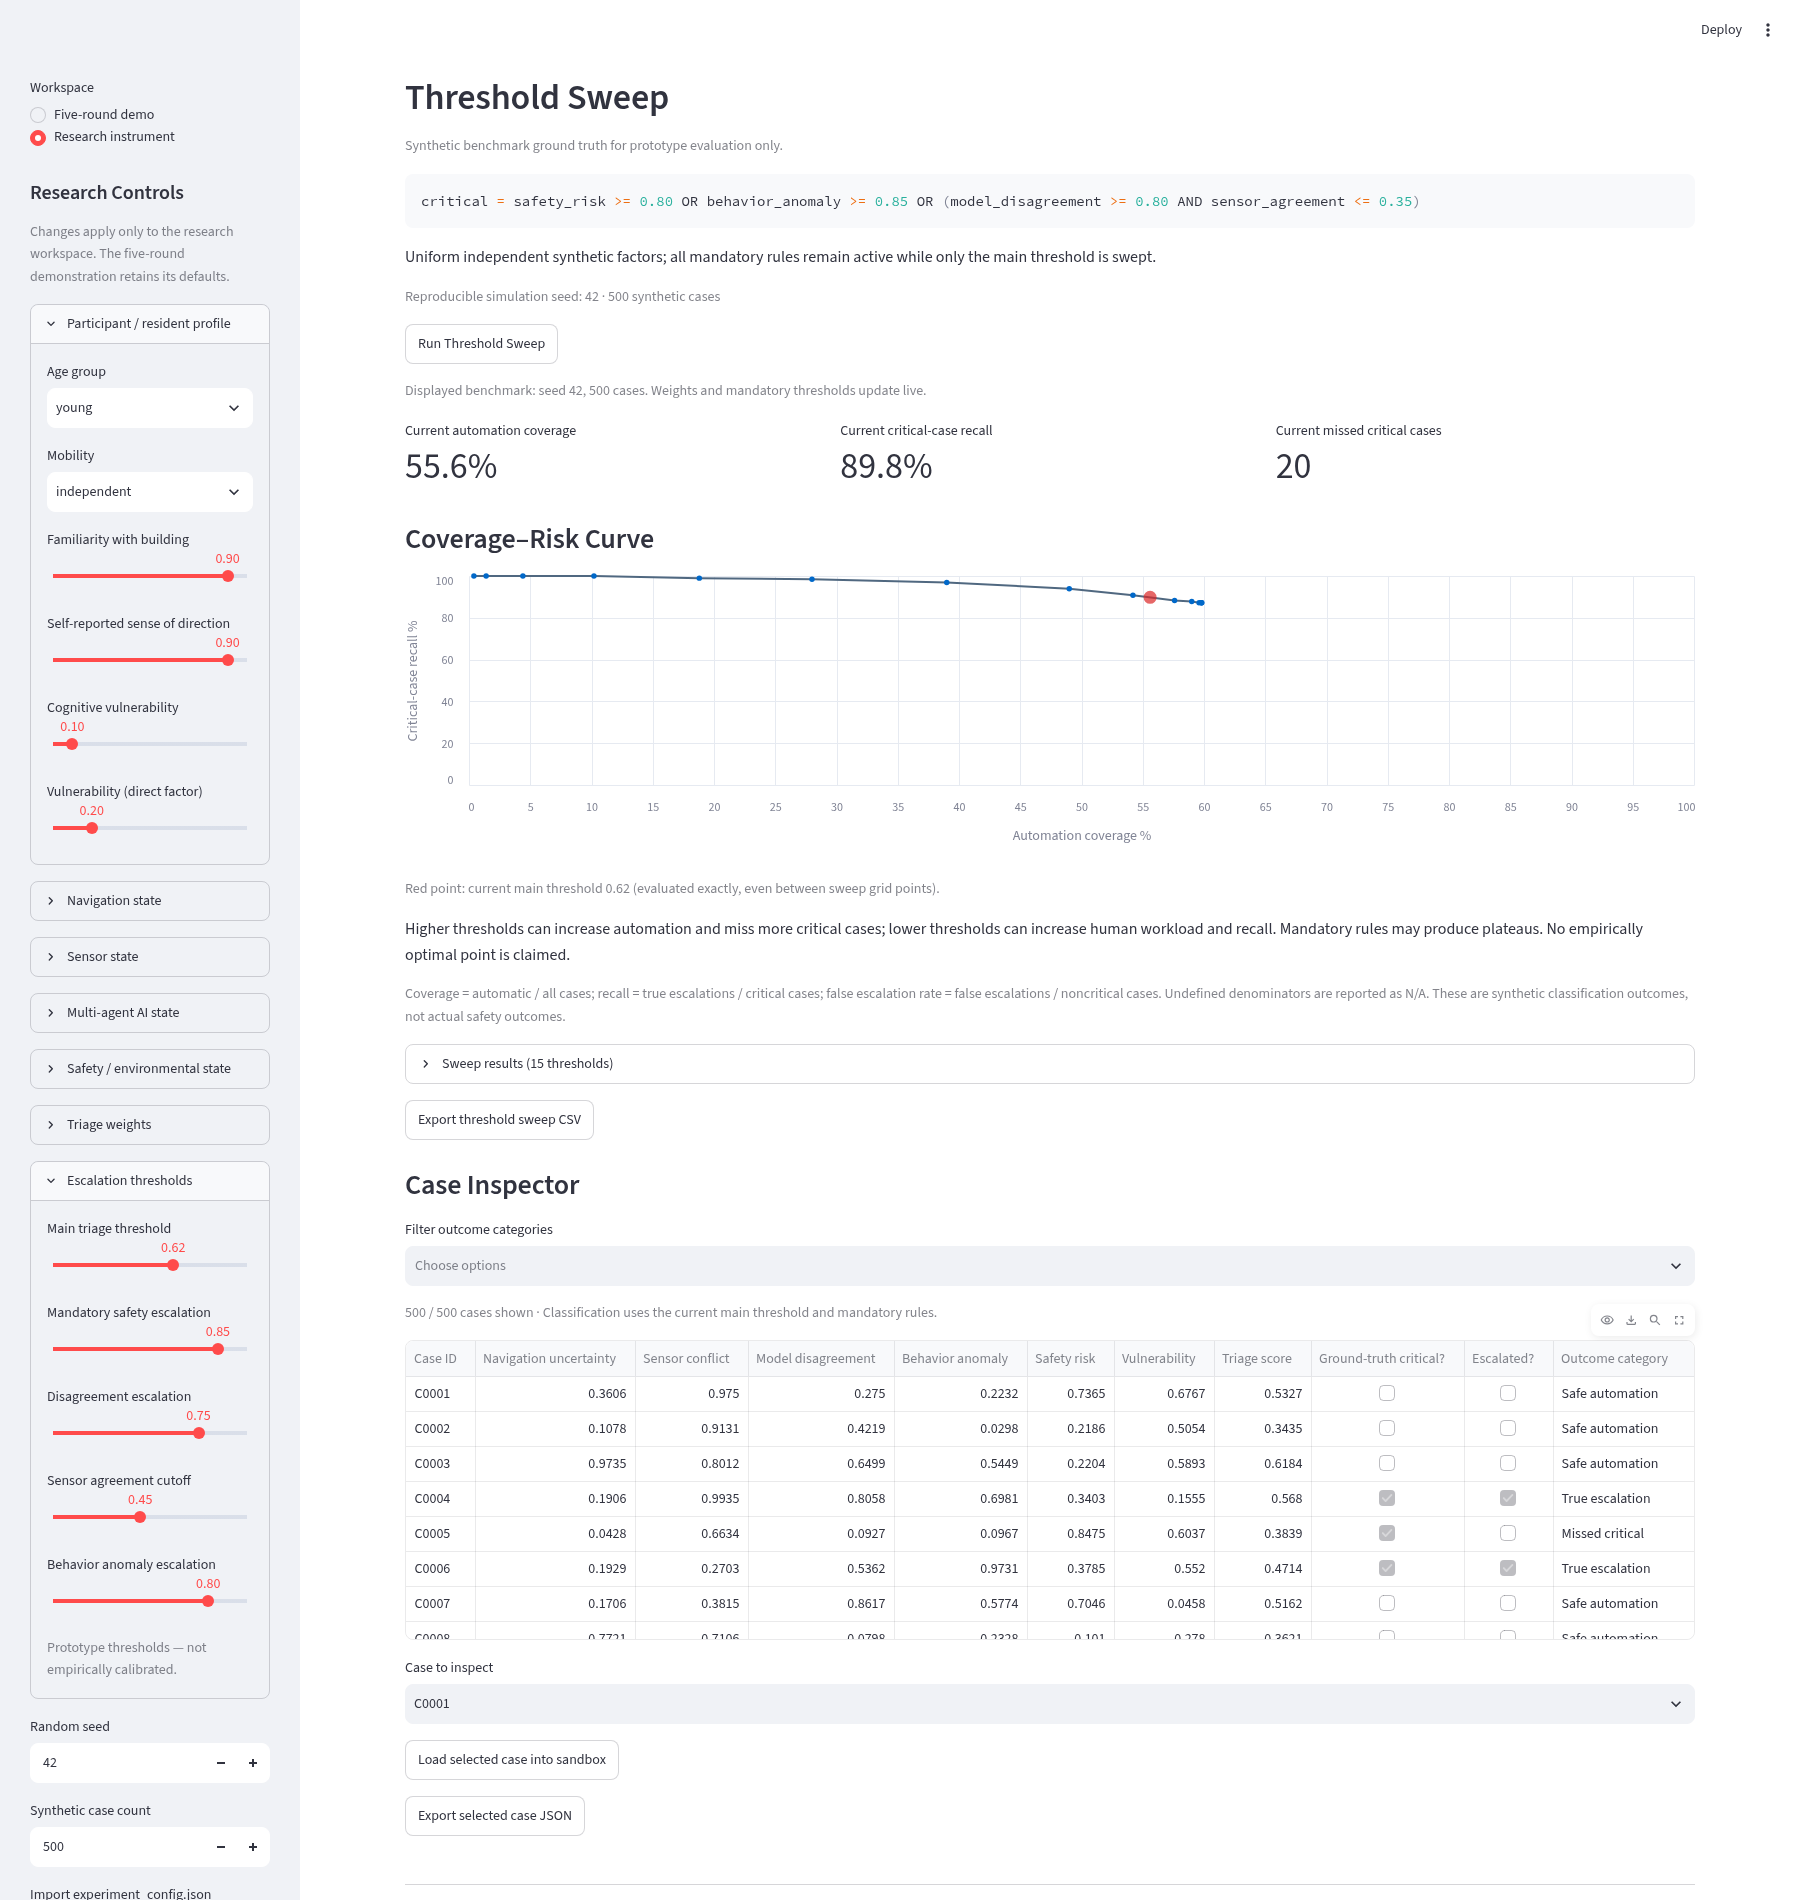
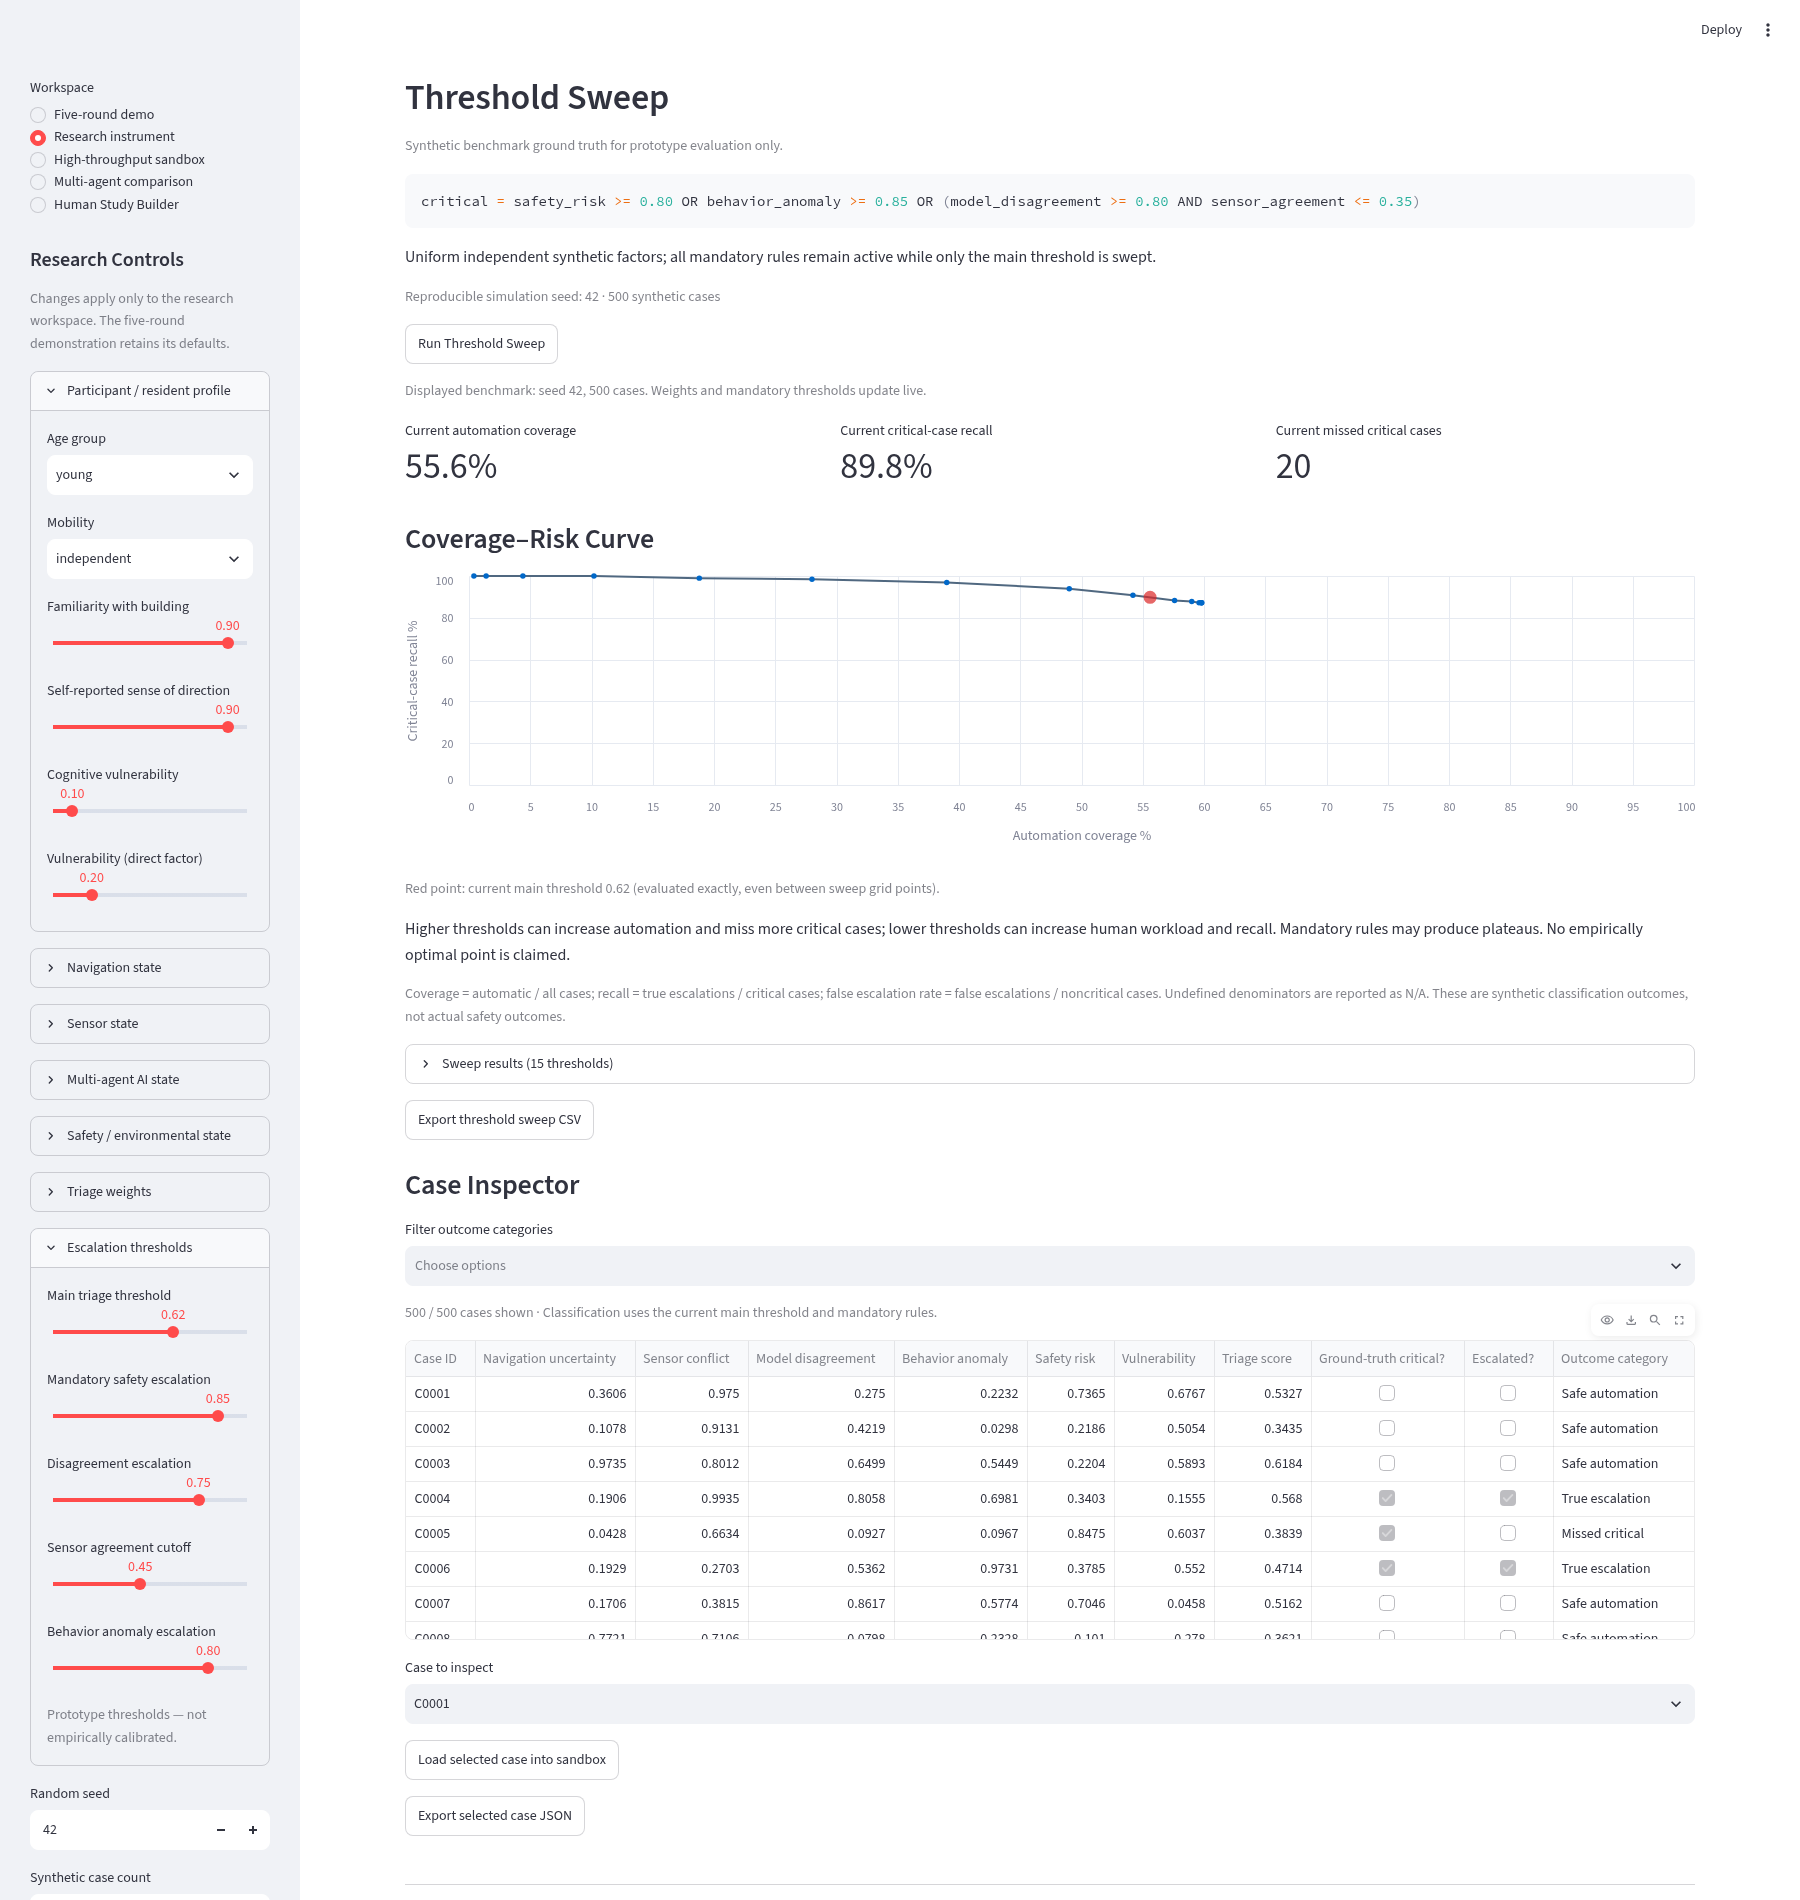
Document six-milestone platform and final integration verification

Changed region(s): [[0.0, 0.0932, 0.1244, 0.9626], [0.0, 0.9937, 0.1244, 1.0]]

diff --git a/README.md b/README.md
@@ -1,5 +1,51 @@
 # New Research Paradigm
 
+**AI High-Throughput Simulation + Human Long-Tail Intervention**
+
+A runnable HCI research instrument for exploring **when AI should stop acting
+autonomously and defer a spatial decision to a human**. Ordinary cases are
+processed automatically; uncertain/high-risk tails are prioritized for human
+judgment and subsequent empirical evaluation.
+
+```text
+Large Scenario Space
+        ↓
+AI High-Throughput Sandbox
+        ↓
+Automatic Triage
+      ↙   ↘
+HEAD      LONG TAIL
+ ↓            ↓
+AUTO        HUMAN
+              ↓
+        Hybrid Decision
+              ↓
+        Empirical Evaluation (future approved human studies)
+```
+
+**Evidence boundary:** all included scenarios, agent outputs and automated pilot
+runs are **SIMULATED EVIDENCE**, not **HUMAN EMPIRICAL EVIDENCE**. The familiar
+97.5% automation coverage is the result of one fictional five-round demonstration,
+not an estimate of real-world automation. Synthetic agents never substitute for
+human participants, and Hybrid > Human is not claimed.
+
+| Milestone | Capability | Current validation |
+| --- | --- | --- |
+| 1 | Standard-library CLI, asyncio, 8 occupants, selective takeover | A/85 closed loop and JSON report |
+| 2 | Five-round visual sandbox, pause/resume, human judgment | A/B/C tests and Chromium interaction |
+| 3 | Configurable factors/weights/rules, reproducible sweep and inspector | Default rules, seed, import/export and regression tests |
+| 4 | 100–5,000 scenarios, head/tail exploration and study sampling | Four sizes, five strategies, unique condition exports |
+| 5 | Five-role Concordia adapter, structured proposals and comparison | Actual Concordia 2.4 lifecycle with mock; real LLM calls untested |
+| 6 | Anonymous study builder, three trial conditions, logs and pilot analysis | Automated synthetic pilot; no real human study performed |
+
+**Quick start (Python 3.12+):** create/activate a virtual environment, run
+`python -m pip install -r requirements.txt`, then `streamlit run app.py`.
+All deterministic, study and no-key mock workflows remain available with this
+base installation. Optionally install `requirements-agents.txt` for Concordia.
+The sidebar selects the five workspaces; participant pilots hide researcher
+controls. Formal participant deployments are outside the validated scope.
+
+
 A deterministic research demo of AI throughput with selective human takeover.
 The validated command-line baseline is `demo.py`; its scenario and decision
 application are reused by the Web Demo. Milestone 3 extracts its unchanged
@@ -385,3 +431,74 @@ pilot used known scripted choices for test purposes; it was not a human study.
 ![Participant selective takeover](screenshots/13-participant-takeover.png)
 
 ![Labeled pilot results](screenshots/14-results-dashboard.png)
+
+## Final integration and reproducibility
+
+All six milestones use the same `triage.py` definition. Historical imports and
+screenshots 01–14 are retained. Core/default thresholds remain uncalibrated.
+The current implementation intentionally keeps the old root imports rather than
+moving the validated CLI modules behind new package paths.
+
+```text
+app.py                         workspace selection and shared map
+triage.py                      single scientific score/rule implementation
+demo.py                        validated standard-library CLI
+web_simulation.py              legacy five-round state
+research_config.py / research_ui.py
+synthetic_cases.py             original six-factor benchmark
+batch_simulation.py / batch_ui.py
+agents/                        Concordia adapter and inspected API notes
+agents_ui.py                   structured comparison
+experiment/                    builder, participant state, storage, analysis
+study_ui.py                    researcher/participant screens
+test_web.py / tests/            Python regression/instrument tests
+test_browser.cjs                Milestone 2/3 real-browser workflow
+test_platform_browser.cjs       Milestone 4/5/6 real-browser workflow
+screenshots/                   all fourteen documented states
+data/                          ignored local anonymous pilot logs
+```
+
+Final checks: **26 test methods passed**, with no failed/skipped tests;
+both Chromium scripts passed their complete workflows, without browser runtime
+errors. Standard-library CLI validation runs in a temporary directory so it does
+not overwrite the retained baseline report. Package dependency integrity was
+checked with `python -m pip check`. Pilot persistence and JSON/CSV round trips
+were checked against the exported records, not only an HTTP health response.
+
+```bash
+python -m unittest discover -v
+node test_browser.cjs
+node test_platform_browser.cjs
+```
+
+Browser scripts require Playwright + Chromium, already installed in the cloud
+runtime; they are development checks rather than application dependencies.
+They generate screenshots and explicitly marked automated pilot logs. The app
+runs locally; the repository screenshots can be viewed directly on GitHub.
+Live processes and browser sessions are not assumed to survive a new environment.
+
+Technical limits: local SQLite/files and Streamlit session state are not a
+production multi-user/authentication system. Protocol import/resume, calibrated
+client-onset RT, durable deployed storage and formal counterbalancing are not yet
+implemented. Concordia integration is a bounded, single-turn entity adapter,
+not a full memory/world engine. Real provider behavior, cost and availability
+remain untested. JSON/CSV pilot mirrors rely on writable local storage.
+
+Scientific limits: independent uniform factor sampling is a stress-test space,
+not a calibrated population model. Scores, context mappings, route references,
+difficulty rankings and study conditions need external validation. Descriptive
+associations and aggregate complementarity arithmetic cannot establish causal
+effects, human effect sizes or Hybrid superiority. Repeated case presentations
+may introduce learning/carryover. No real human behavioral data were collected.
+
+**Recommended Milestone 7:** preregister a small, institutionally approved human
+pilot; refine task validity and accessible stimuli; implement counterbalancing,
+client-timestamp validation and deployment/privacy controls; then evaluate
+behavioral validity, decision quality, cognition, workload, trust calibration and
+complementarity before calibrating thresholds or scaling generative simulation.
+
+**Collaborator description:** New Research Paradigm explores a large synthetic
+spatial-decision space, deterministically triages ordinary and long-tail cases,
+exposes structured agent disagreements, and turns selected tails into anonymous
+human-in-the-loop pilot trials—while keeping simulation evidence separate from
+future human empirical evidence.
